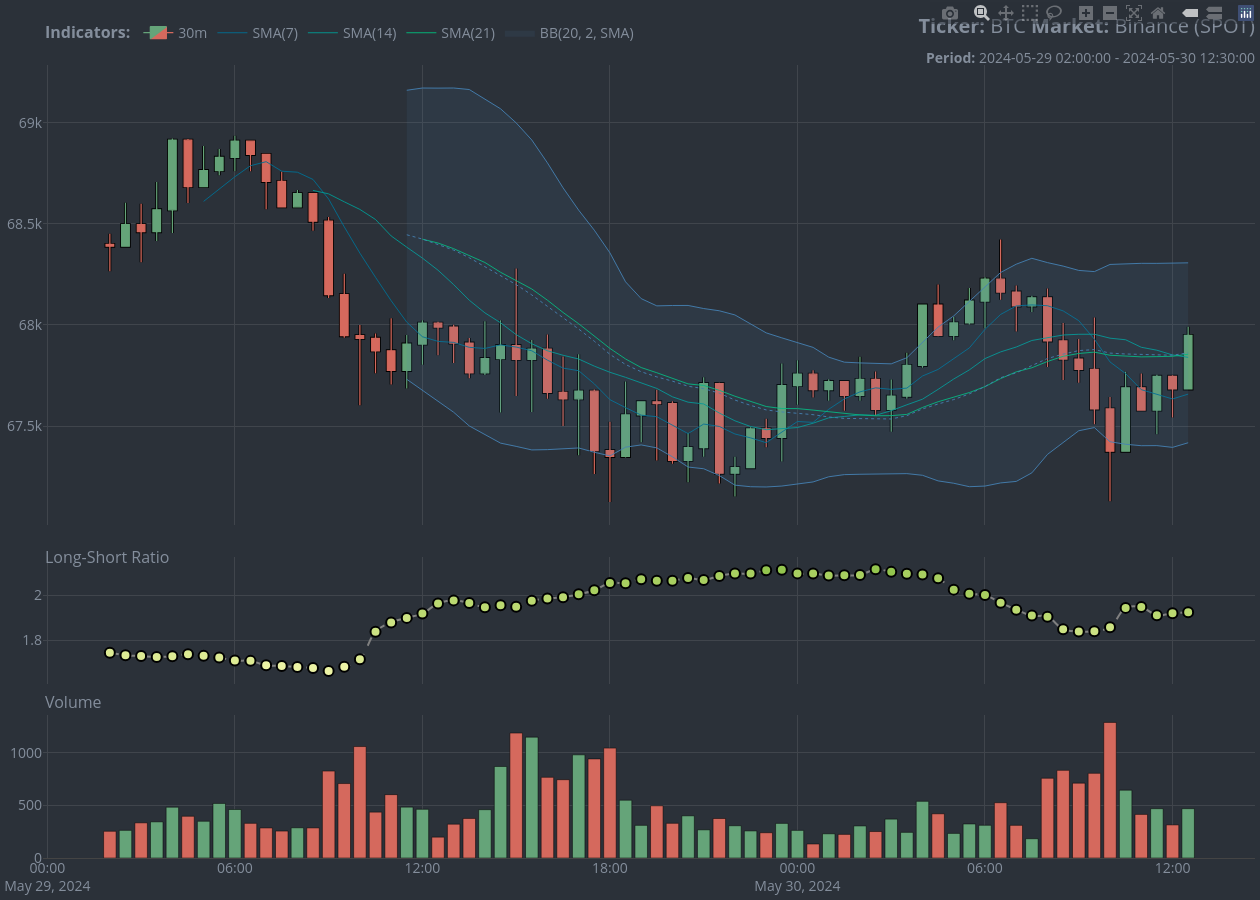
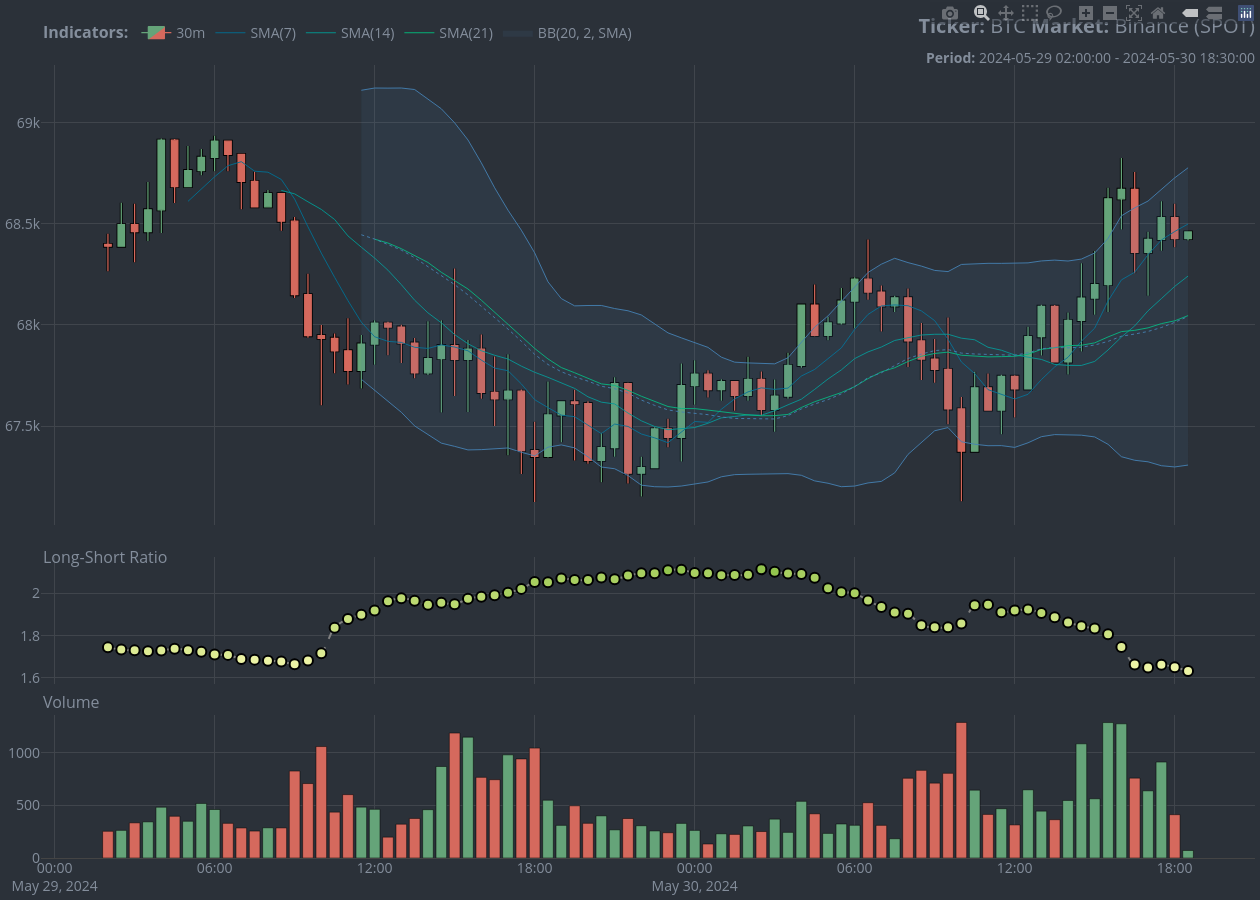
Updated Tests and FUN
The utility functions now have assert statements in the start. There were some bugs in the example of the utility functions. These have been fixed.

News not updated.

diff --git a/README.md b/README.md
@@ -1,7 +1,7 @@
 
 <!-- README.md is generated from README.Rmd. Please edit that file -->
 
-# cryptoQuotes: Open access to cryptocurrency market data <a href="https://serkor1.github.io/cryptoQuotes/"><img src="man/figures/logo.png" align="right" height="139" alt="cryptocurrency in R"/></a>
+# cryptoQuotes: Open access to cryptocurrency market data <a href="https://serkor1.github.io/cryptoQuotes/"><img src="man/figures/logo.png" align="right" height="154" alt="cryptocurrency in R"/></a>
 
 <!-- badges: start -->
 
@@ -279,122 +279,122 @@ volume
 <tbody>
 <tr>
 <td style="text-align:left;">
-2024-05-30 10:00:00
+2024-05-30 16:00:00
 </td>
 <td style="text-align:center;">
-67584.57
+68623.99
 </td>
 <td style="text-align:center;">
-67643.99
+68826.31
 </td>
 <td style="text-align:center;">
-67128
+68472.35
 </td>
 <td style="text-align:center;">
-67376.01
+68671.02
 </td>
 <td style="text-align:left;">
-1287.97865
+1274.59558
 </td>
 </tr>
 <tr>
 <td style="text-align:left;">
-2024-05-30 10:30:00
+2024-05-30 16:30:00
 </td>
 <td style="text-align:center;">
-67376.01
+68671.02
 </td>
 <td style="text-align:center;">
-67769.11
+68756.41
 </td>
 <td style="text-align:center;">
-67376
+68256.29
 </td>
 <td style="text-align:center;">
-67688.96
+68359.6
 </td>
 <td style="text-align:left;">
-644.27659
+758.51827
 </td>
 </tr>
 <tr>
 <td style="text-align:left;">
-2024-05-30 11:00:00
+2024-05-30 17:00:00
 </td>
 <td style="text-align:center;">
-67688.96
+68359.6
 </td>
 <td style="text-align:center;">
-67759.99
+68460.84
 </td>
 <td style="text-align:center;">
-67579.04
+68144
 </td>
 <td style="text-align:center;">
-67579.05
+68424
 </td>
 <td style="text-align:left;">
-414.02039
+638.09219
 </td>
 </tr>
 <tr>
 <td style="text-align:left;">
-2024-05-30 11:30:00
+2024-05-30 17:30:00
 </td>
 <td style="text-align:center;">
-67579.04
+68424.01
 </td>
 <td style="text-align:center;">
-67753.71
+68612
 </td>
 <td style="text-align:center;">
-67459.96
+68367.65
 </td>
 <td style="text-align:center;">
-67745.94
+68530.76
 </td>
 <td style="text-align:left;">
-468.4199
+911.26349
 </td>
 </tr>
 <tr>
 <td style="text-align:left;">
-2024-05-30 12:00:00
+2024-05-30 18:00:00
 </td>
 <td style="text-align:center;">
-67745.94
+68530.77
 </td>
 <td style="text-align:center;">
-67751
+68600
 </td>
 <td style="text-align:center;">
-67541.82
+68384
 </td>
 <td style="text-align:center;">
-67683.69
+68427.18
 </td>
 <td style="text-align:left;">
-314.39417
+411.48792
 </td>
 </tr>
 <tr>
 <td style="text-align:left;">
-2024-05-30 12:30:00
+2024-05-30 18:30:00
 </td>
 <td style="text-align:center;">
-67683.68
+68427.19
 </td>
 <td style="text-align:center;">
-67991
+68460
 </td>
 <td style="text-align:center;">
-67683.68
+68417.81
 </td>
 <td style="text-align:center;">
-67948.01
+68459.99
 </td>
 <td style="text-align:left;">
-468.59159
+71.38386
 </td>
 </tr>
 </tbody>
@@ -562,86 +562,86 @@ ls_ratio
 <tbody>
 <tr>
 <td style="text-align:left;">
-2024-05-30 10:00:00
+2024-05-30 16:00:00
 </td>
 <td style="text-align:center;">
-0.65
+0.636
 </td>
 <td style="text-align:center;">
-0.35
+0.364
 </td>
 <td style="text-align:center;">
-1.858
+1.746
 </td>
 </tr>
 <tr>
 <td style="text-align:left;">
-2024-05-30 10:30:00
+2024-05-30 16:30:00
 </td>
 <td style="text-align:center;">
-0.66
+0.624
 </td>
 <td style="text-align:center;">
-0.34
+0.376
 </td>
 <td style="text-align:center;">
-1.944
+1.662
 </td>
 </tr>
 <tr>
 <td style="text-align:left;">
-2024-05-30 11:00:00
+2024-05-30 17:00:00
 </td>
 <td style="text-align:center;">
-0.661
+0.623
 </td>
 <td style="text-align:center;">
-0.339
+0.378
 </td>
 <td style="text-align:center;">
-1.947
+1.649
 </td>
 </tr>
 <tr>
 <td style="text-align:left;">
-2024-05-30 11:30:00
+2024-05-30 17:30:00
 </td>
 <td style="text-align:center;">
-0.656
+0.624
 </td>
 <td style="text-align:center;">
-0.344
+0.376
 </td>
 <td style="text-align:center;">
-1.911
+1.662
 </td>
 </tr>
 <tr>
 <td style="text-align:left;">
-2024-05-30 12:00:00
+2024-05-30 18:00:00
 </td>
 <td style="text-align:center;">
-0.657
+0.623
 </td>
 <td style="text-align:center;">
-0.342
+0.377
 </td>
 <td style="text-align:center;">
-1.92
+1.65
 </td>
 </tr>
 <tr>
 <td style="text-align:left;">
-2024-05-30 12:30:00
+2024-05-30 18:30:00
 </td>
 <td style="text-align:center;">
-0.658
+0.62
 </td>
 <td style="text-align:center;">
-0.342
+0.38
 </td>
 <td style="text-align:center;">
-1.924
+1.632
 </td>
 </tr>
 </tbody>
@@ -690,7 +690,7 @@ cryptoQuotes::chart(
 
 <details>
 <summary>
-Colorblind friendly
+Colorblind friendly version
 </summary>
 
 #### Charting with indicators (colorblind friendly)
@@ -720,7 +720,9 @@ cryptoQuotes::chart(
 ```
 
 <img src="man/figures/README-chartquote(deficiency)-1.png" alt="cryptocurrency charts in R" style="display: block; margin: auto;" />
-\_\_\_\_\_\_\_\_\_\_
+
+------------------------------------------------------------------------
+
 </details>
 
 ## :information_source: Installation
